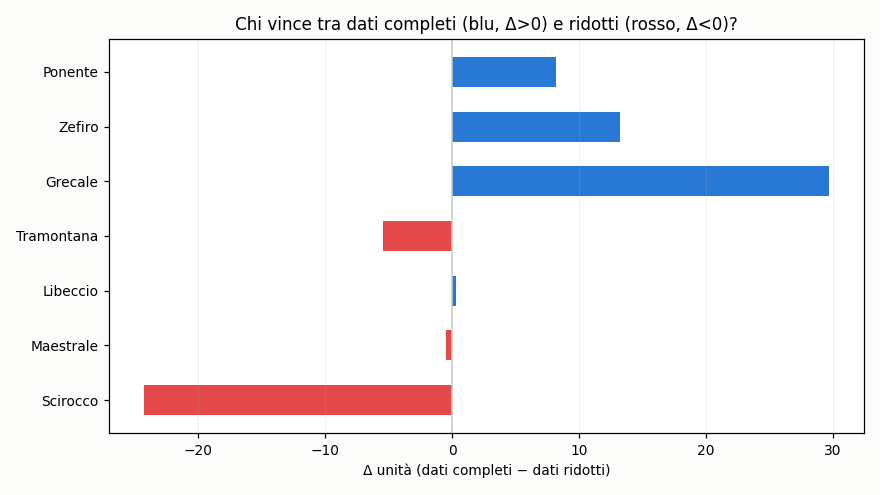
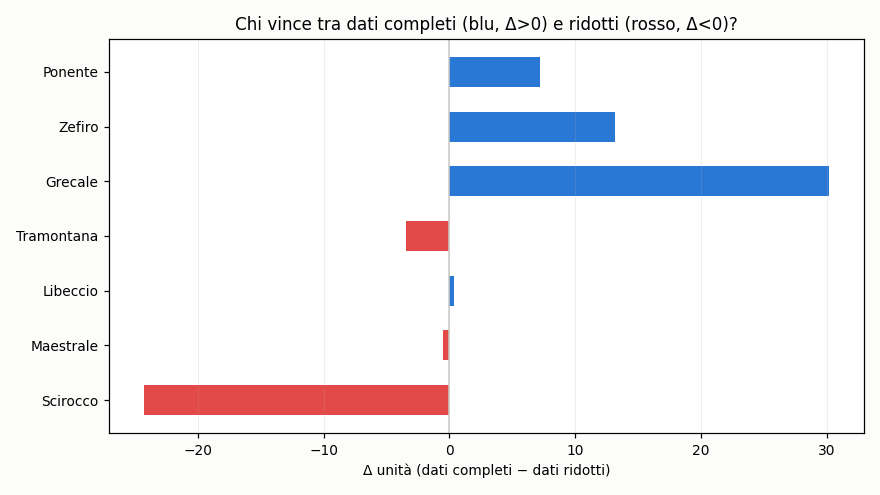
aggiornamento 2026-07-25 15:21 UTC

diff --git a/README.md b/README.md
@@ -37,9 +37,9 @@ scala in unità). Non indichiamo quale.
 
 ## Grafici
 
-![Coppie: dati completi vs ridotti](https://raw.githubusercontent.com/Kitem19/ippica-track-record/main/charts/equity_pairs.png?v=98633d93)
+![Coppie: dati completi vs ridotti](https://raw.githubusercontent.com/Kitem19/ippica-track-record/main/charts/equity_pairs.png?v=4b72abe6)
 
-![Delta per coppia](https://raw.githubusercontent.com/Kitem19/ippica-track-record/main/charts/coppie_delta.png?v=31d255d7)
+![Delta per coppia](https://raw.githubusercontent.com/Kitem19/ippica-track-record/main/charts/coppie_delta.png?v=e5c8a9f6)
 
 ### Come leggere i grafici
 
@@ -59,31 +59,31 @@ _Poche giornate: numeri ancora rumorosi, si conclude a fine fase (31/7)._
 - **Scirocco**: dati ridotti avanti di 24,3u — qui gli extra non aiutano
 - **Maestrale**: in sostanziale pareggio — troppo presto per dire
 - **Libeccio**: in sostanziale pareggio — troppo presto per dire
-- **Tramontana**: dati ridotti avanti di 5,5u — qui gli extra non aiutano
-- **Grecale**: dati completi avanti di 29,7u
+- **Tramontana**: dati ridotti avanti di 3,5u — qui gli extra non aiutano
+- **Grecale**: dati completi avanti di 30,2u
 - **Zefiro**: dati completi avanti di 13,2u
-- **Ponente**: dati completi avanti di 8,2u
+- **Ponente**: dati completi avanti di 7,2u
 
 ## Classifica (conteggio ufficiale)
 
 | Sistema | Cassa (u) | P/L (u) | Selezioni | Escluse | Stato |
 |---|---|---|---|---|---|
-| Grecale | 29,4 | +9,4 | 288 | 4 | 🟢 |
+| Grecale | 29,9 | +9,9 | 289 | 4 | 🟢 |
 | Scirocco-B | 24,2 | +4,2 | 216 | 0 | 🟢 |
 | Zefiro | 12,7 | -7,3 | 251 | 5 | 🟢 |
-| Ponente | 7,2 | -12,8 | 199 | 28 | 🟢 |
-| Tramontana-B | 5,2 | -14,8 | 319 | 0 | 🟢 |
-| Maestrale-B | 0,0 | -20,0 | 100 | 220 | 🛑 |
-| Scirocco | 0,0 | -20,1 | 80 | 229 | 🛑 |
-| Grecale-B | 0,0 | -20,2 | 137 | 160 | 🛑 |
+| Ponente | 6,2 | -13,8 | 200 | 28 | 🟢 |
+| Tramontana-B | 3,2 | -16,8 | 321 | 0 | 🟢 |
+| Maestrale-B | 0,0 | -20,0 | 100 | 221 | 🛑 |
+| Scirocco | 0,0 | -20,1 | 80 | 230 | 🛑 |
+| Grecale-B | 0,0 | -20,2 | 137 | 161 | 🛑 |
 | Tramontana | 0,0 | -20,3 | 45 | 292 | 🛑 |
-| Zefiro-B | 0,0 | -20,5 | 143 | 61 | 🛑 |
-| Maestrale | 0,0 | -20,5 | 104 | 240 | 🛑 |
-| Libeccio | 0,0 | -20,6 | 181 | 148 | 🛑 |
-| Libeccio-B | 0,0 | -20,9 | 119 | 163 | 🛑 |
-| Ponente-B | 0,0 | -21,0 | 63 | 79 | 🛑 |
+| Zefiro-B | 0,0 | -20,5 | 143 | 63 | 🛑 |
+| Maestrale | 0,0 | -20,5 | 104 | 241 | 🛑 |
+| Libeccio | 0,0 | -20,6 | 181 | 149 | 🛑 |
+| Libeccio-B | 0,0 | -20,9 | 119 | 165 | 🛑 |
+| Ponente-B | 0,0 | -21,0 | 63 | 80 | 🛑 |
 
-_Aggiornato: 25/07 17:16_
+_Aggiornato: 25/07 17:21_
 ---
 *Nessuna delle informazioni qui pubblicate costituisce consiglio di gioco.
 Il gioco può causare dipendenza — 18+.*
